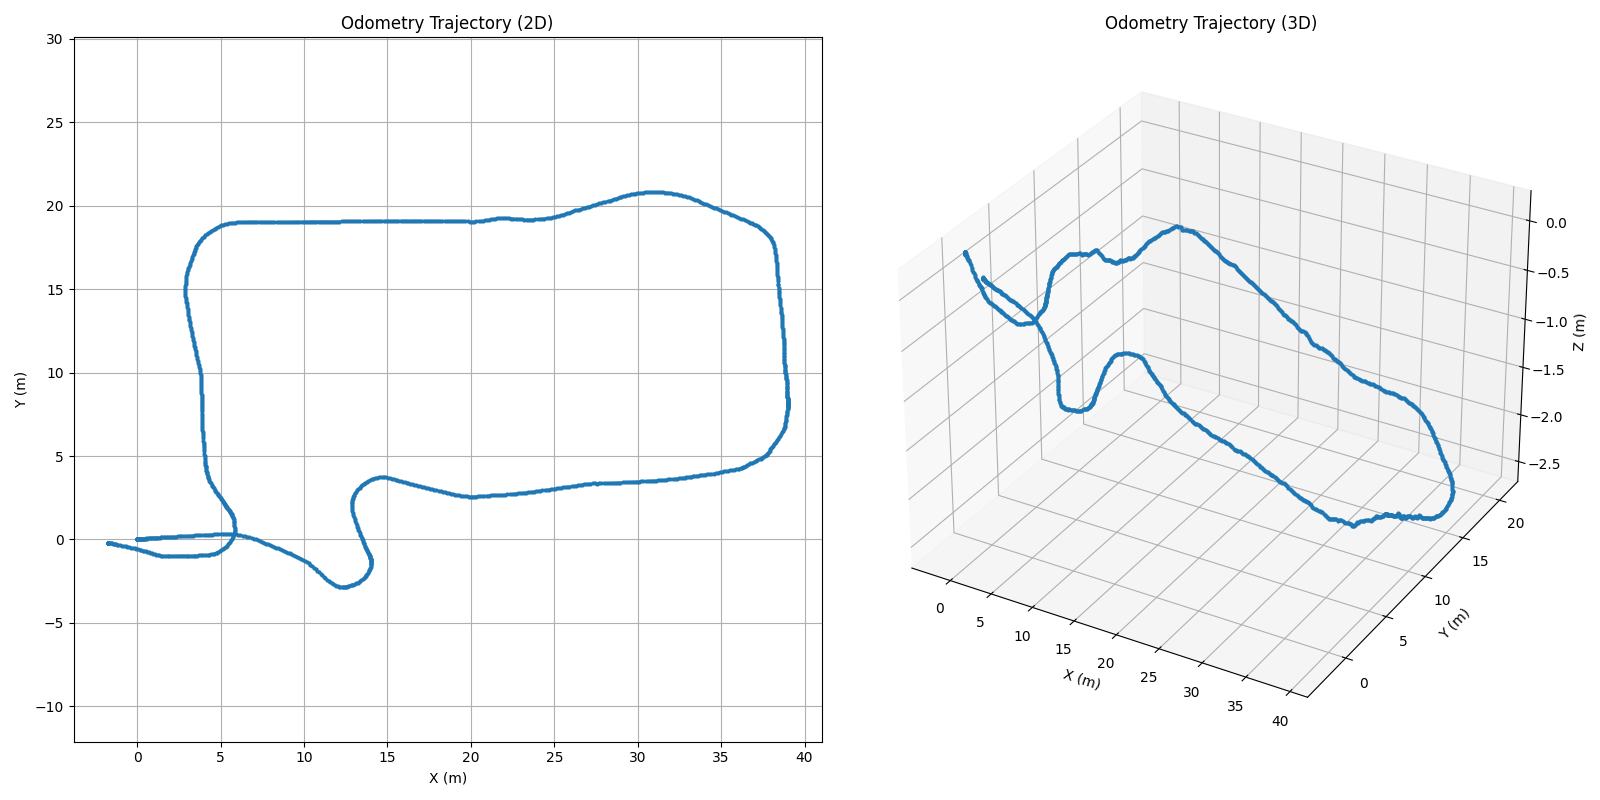
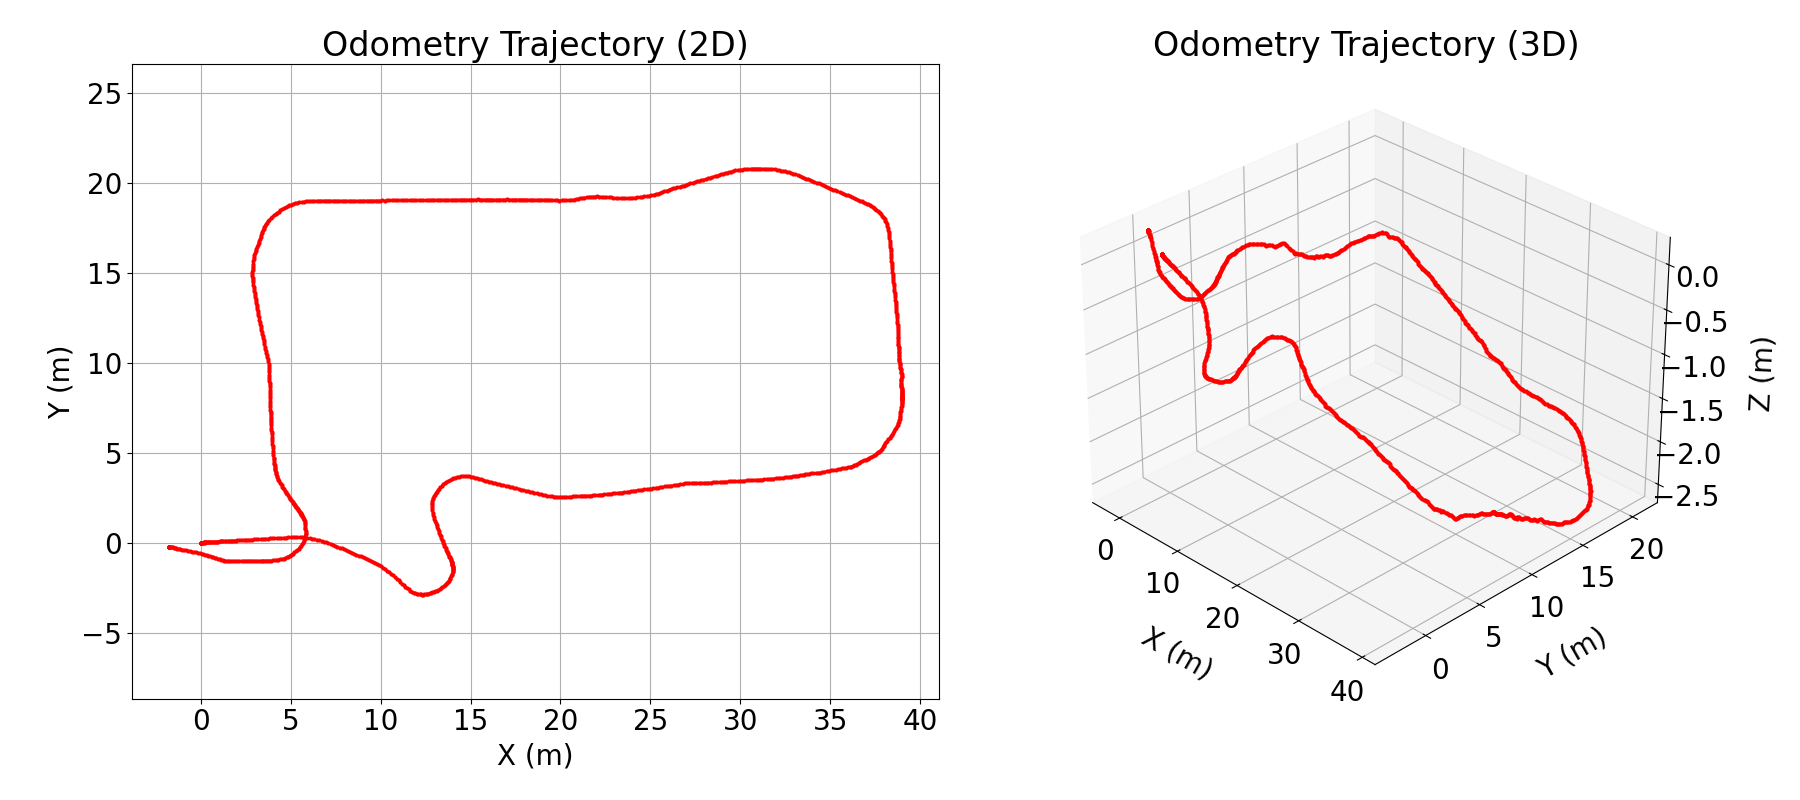
更新路径评估中的二进制图像文件，修正本地化和里程计可视化图像以确保一致性和准确性。

diff --git a/path_evaluation/compare_trajectories.py b/path_evaluation/compare_trajectories.py
@@ -1,0 +1,116 @@
+#!/usr/bin/env python
+
+import matplotlib.pyplot as plt
+import numpy as np
+import os
+from mpl_toolkits.mplot3d import Axes3D
+
+# 设置matplotlib字体大小为五号（约12pt）
+plt.rcParams.update({'font.size': 20})
+
+def plot_trajectory(x_data, y_data, z_data, title_prefix, color='r', fig_size=(18, 8), 
+                    labelpad=20, elev=30, azim=-45, output_file=None):
+    """
+    绘制轨迹的2D和3D图
+    
+    参数:
+        x_data, y_data, z_data: 轨迹坐标数据
+        title_prefix: 图表标题前缀，如 'Odometry' 或 'Localization'
+        color: 轨迹线条颜色
+        fig_size: 图形尺寸
+        labelpad: 轴标签与轴的间距
+        elev, azim: 3D图的视角参数
+        output_file: 输出图片文件路径，若为None则不保存
+    """
+    fig = plt.figure(figsize=fig_size)
+    
+    # 左侧：2D轨迹
+    ax1 = fig.add_subplot(121)
+    ax1.plot(x_data, y_data, marker='o', linestyle='-', markersize=2, color=color)
+    ax1.set_xlabel('X (m)')
+    ax1.set_ylabel('Y (m)')
+    ax1.set_title(f'{title_prefix} Trajectory (2D)')
+    ax1.tick_params()
+    ax1.grid(True)
+    ax1.axis('equal')  # 保持XY轴比例一致
+    
+    # 右侧：3D轨迹
+    ax2 = fig.add_subplot(122, projection='3d')
+    ax2.plot(x_data, y_data, z_data, marker='o', linestyle='-', markersize=2, color=color)
+    ax2.set_xlabel('X (m)', labelpad=labelpad)
+    ax2.set_ylabel('Y (m)', labelpad=labelpad)
+    ax2.set_zlabel('Z (m)', labelpad=labelpad)
+    ax2.set_title(f'{title_prefix} Trajectory (3D)')
+    ax2.tick_params()
+    ax2.grid(True)
+    # 设置3D图的视角
+    ax2.view_init(elev=elev, azim=azim)
+    
+    plt.tight_layout()
+    
+    # 如果提供了输出文件路径，则保存图像
+    if output_file:
+        plt.savefig(output_file)
+        print(f"{title_prefix}轨迹图片已保存至 {output_file}")
+    
+    return fig
+
+if __name__ == '__main__':
+    # 获取当前脚本所在目录
+    current_dir = os.path.dirname(os.path.abspath(__file__))
+    print(f"当前脚本所在目录: {current_dir}")
+    
+    # 轨迹文件路径 - 基于脚本目录构建
+    localization_tum = os.path.join(current_dir, 'localization.tum')
+    odometry_tum = os.path.join(current_dir, 'odometry.tum')
+    
+    # 输出图像文件 - 基于脚本目录构建（修改为分别保存里程计和定位图像）
+    odometry_image = os.path.join(current_dir, 'odometry.png')
+    localization_image = os.path.join(current_dir, 'localization.png')
+
+    try:
+        # 检查文件存在性
+        if not os.path.exists(localization_tum):
+            raise FileNotFoundError(f"定位轨迹文件 {localization_tum} 不存在")
+        if not os.path.exists(odometry_tum):
+            raise FileNotFoundError(f"里程计轨迹文件 {odometry_tum} 不存在")
+            
+        # 读取定位轨迹数据
+        localization_data = np.loadtxt(localization_tum)
+        local_x = localization_data[:, 1]  # 第2列是X坐标
+        local_y = localization_data[:, 2]  # 第3列是Y坐标
+        local_z = localization_data[:, 3]  # 第4列是Z坐标
+        
+        # 读取里程计轨迹数据
+        odometry_data = np.loadtxt(odometry_tum)
+        odom_x = odometry_data[:, 1]  # 第2列是X坐标
+        odom_y = odometry_data[:, 2]  # 第3列是Y坐标
+        odom_z = odometry_data[:, 3]  # 第4列是Z坐标
+        
+        print(f"成功读取定位轨迹数据点: {len(localization_data)} 个")
+        print(f"成功读取里程计轨迹数据点: {len(odometry_data)} 个")
+
+        # 绘制里程计轨迹
+        fig1 = plot_trajectory(
+            odom_x, odom_y, odom_z, 
+            title_prefix='Odometry', 
+            color='r', 
+            output_file=odometry_image
+        )
+        plt.close(fig1)  # 关闭图1以避免显示
+        
+        # 绘制定位轨迹
+        fig2 = plot_trajectory(
+            local_x, local_y, local_z, 
+            title_prefix='Localization', 
+            color='b', 
+            output_file=localization_image
+        )
+        
+        # 显示图形
+        plt.show()
+        
+    except FileNotFoundError as e:
+        print(f"错误: {str(e)}")
+    except Exception as e:
+        print(f"处理数据时发生错误: {str(e)}") 
